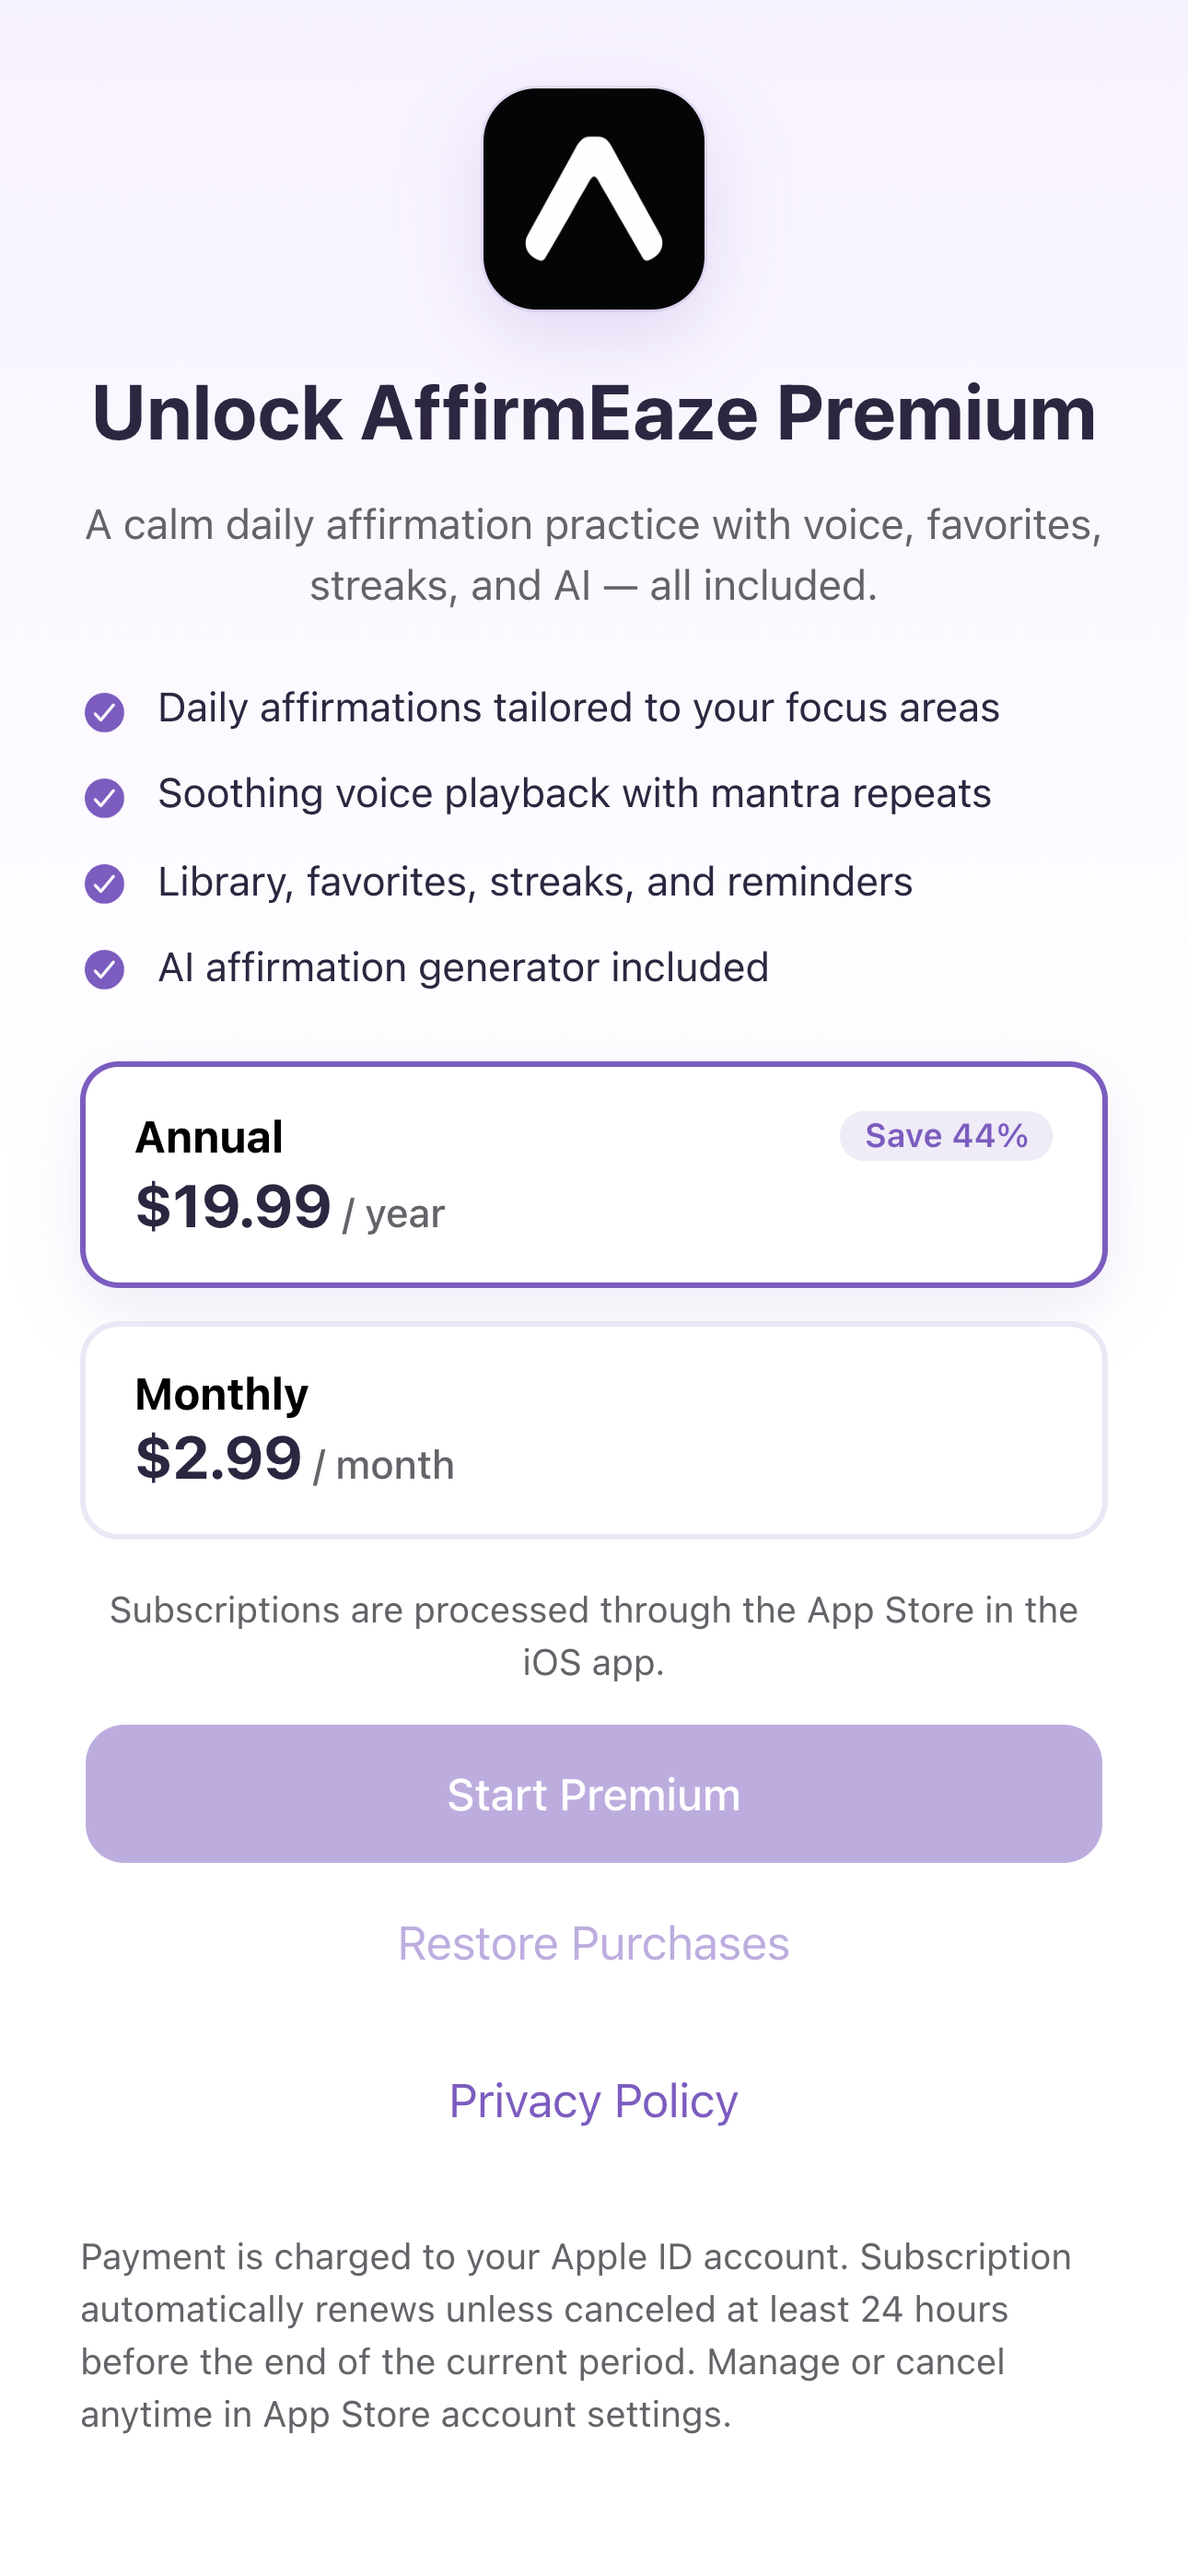
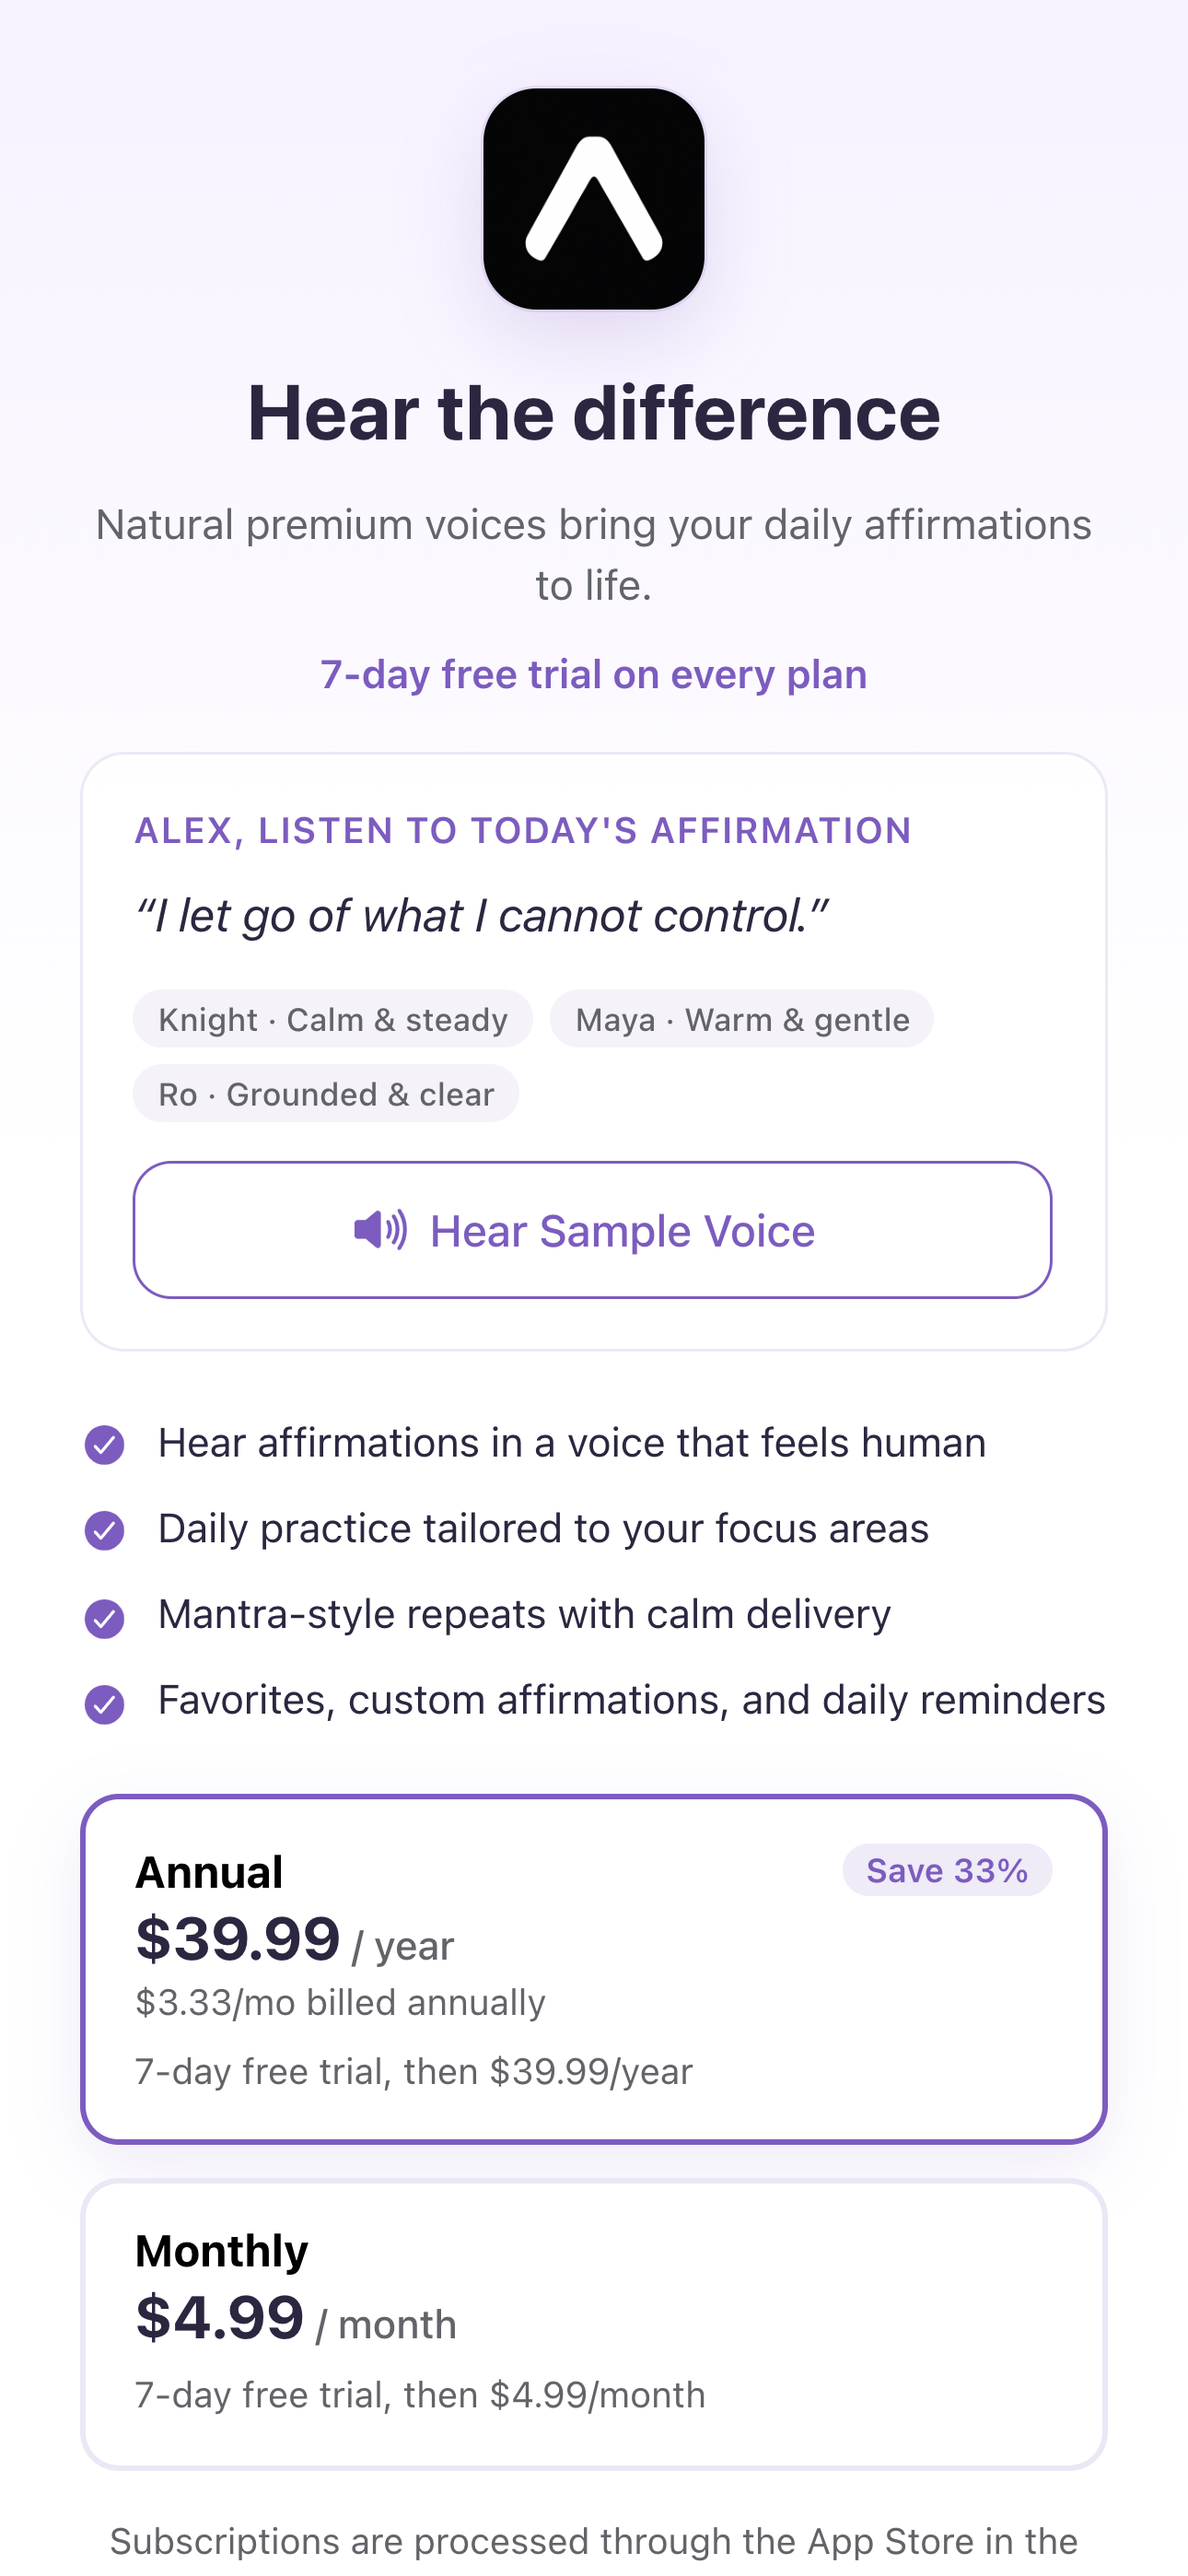
Add TestFlight prep guide and refresh App Store screenshots.
Align shipping docs and capture script with the Saved tab and current paywall so submission assets match the app on main.

diff --git a/docs/testflight-prep.md b/docs/testflight-prep.md
@@ -1,0 +1,107 @@
+# TestFlight prep checklist
+
+Ordered steps for the **Capacitor app on `main`**. Do not use the experimental `react-native` branch for TestFlight until device QA is done on that port.
+
+---
+
+## Phase 1 — Free (before Apple Developer $99)
+
+Do these now; no paid account required.
+
+| # | Task | Doc / command |
+|---|------|----------------|
+| 1 | Full simulator walkthrough: onboarding → paywall (bypass) → Today → Saved → Settings drill-ins | [local-testing.md](./local-testing.md) |
+| 2 | Add `VITE_ELEVENLABS_API_KEY` to `.env.local`, rebuild, test voice on Today + Paywall + Settings → Voice | [pre-ship-free-tasks.md](./pre-ship-free-tasks.md) |
+| 3 | Run on **physical iPhone** via Xcode free provisioning (voice + notifications) | Xcode → your device |
+| 4 | Finalize App Store copy | [app-store-metadata.md](./app-store-metadata.md) |
+| 5 | Regenerate screenshots | `npm run screenshots` → [screenshots-guide.md](./screenshots-guide.md) |
+| 6 | Verify URLs on phone: privacy + support pages load | [host-privacy-policy.md](./host-privacy-policy.md) |
+| 7 | RevenueCat project ready (entitlement `premium`, product IDs noted) | [revenuecat-prep.md](./revenuecat-prep.md) |
+
+**Env for local testing** (`.env.local`):
+
+```bash
+VITE_SUBSCRIPTION_DEV_BYPASS=true
+VITE_ELEVENLABS_API_KEY=your-key
+# VITE_REVENUECAT_APPLE_API_KEY=   # add after Apple account
+```
+
+**Rebuild after env changes:**
+
+```bash
+npm run build:ios
+```
+
+---
+
+## Phase 2 — Apple Developer enrollment day
+
+| # | Task | Where |
+|---|------|--------|
+| 1 | Enroll in [Apple Developer Program](https://developer.apple.com/programs/) | Apple |
+| 2 | Create app in **App Store Connect** | Bundle ID: `com.affirmationflow.app` |
+| 3 | Create subscription group **AffirmEaze Premium** | App Store Connect → Subscriptions |
+| 4 | Add products (7-day free trial on both): | |
+| | • `com.affirmationflow.app.premium.monthly` — $4.99/mo | |
+| | • `com.affirmationflow.app.premium.yearly` — $39.99/yr | |
+| 5 | Link App Store Connect to **RevenueCat** | [revenuecat-prep.md](./revenuecat-prep.md) |
+| 6 | Add `VITE_REVENUECAT_APPLE_API_KEY=appl_...` to `.env.local` | RevenueCat dashboard |
+| 7 | Xcode → App target → **Signing & Capabilities** → add **In-App Purchase** | `ios/App/App.xcworkspace` |
+| 8 | Set **Release** scheme signing to your Team | Xcode |
+
+---
+
+## Phase 3 — TestFlight build
+
+| # | Task | Notes |
+|---|------|--------|
+| 1 | Set `VITE_SUBSCRIPTION_DEV_BYPASS=false` for release testing | Or use a separate `.env.production.local` |
+| 2 | `npm run build:ios` | Syncs web + native |
+| 3 | Xcode → **Product → Archive** | Release configuration |
+| 4 | **Distribute App → App Store Connect** | Upload build |
+| 5 | App Store Connect → **TestFlight** → add internal testers | You + 1–2 friends |
+| 6 | Test on device: subscribe (Sandbox Apple ID), restore, voice, reminders | |
+| 7 | Paste metadata from [app-store-metadata.md](./app-store-metadata.md) | |
+| 8 | Upload screenshots from `docs/screenshots/` | 6.7" slot |
+| 9 | Complete **App Privacy** questionnaire | No tracking; on-device data; IAP |
+| 10 | Submit for **App Review** when TestFlight looks good | |
+
+---
+
+## Phase 4 — Reviewer essentials
+
+Paste into **App Review Information** (full text in [app-store-metadata.md](./app-store-metadata.md)):
+
+- Subscription-only app after 7-day trial
+- No cloud login; data on device
+- Restore Purchases on paywall and Settings → Account
+- Sandbox product IDs: `com.affirmationflow.app.premium.monthly` / `.yearly`
+
+**Support:** support@affirmeaze.app  
+**Privacy:** https://oobaretin.github.io/affirmation-flow/privacy/
+
+---
+
+## Parallel track — React Native (`react-native` branch)
+
+Experimental only. **Do not merge** until:
+
+- [ ] Xcode **16.1+** (RN 0.86 requirement)
+- [ ] `cd mobile-rn && npm run ios:dev` succeeds
+- [ ] Voice + paywall verified on physical iPhone
+
+Keep shipping TestFlight from **`main`**.
+
+---
+
+## Quick reference
+
+| Item | Value |
+|------|--------|
+| App name | AffirmEaze |
+| Bundle ID | `com.affirmationflow.app` |
+| Entitlement (RevenueCat) | `premium` |
+| Monthly | $4.99/mo, 7-day trial |
+| Annual | $39.99/yr, 7-day trial |
+| Xcode workspace | `ios/App/App.xcworkspace` |
+| Build command | `npm run build:ios` |

diff --git a/docs/screenshots-guide.md b/docs/screenshots-guide.md
@@ -4,22 +4,25 @@ Apple requires **6.7" iPhone** screenshots (iPhone 16 Pro Max). Capture these be
 
 ## Simulator setup
 
-1. Open Xcode → run app on **iPhone 16 Pro Max**
-2. Use a clean state: complete onboarding, subscribe bypass on, sample data loaded
-3. Hide simulator chrome if needed: **Device → Appearance → Light** (matches app best)
+1. On **`main`**: `npm run build:ios` → open `ios/App/App.xcworkspace` in Xcode
+2. Run on **iPhone 16 Pro Max** simulator
+3. Use a clean state: complete onboarding, dev bypass on, sample favorites loaded
+4. **Device → Appearance → Light** (matches app best)
 
 ## Recommended shots (6–8 total)
 
 | # | Screen | How to get there | Caption idea |
 |---|--------|------------------|--------------|
-| 1 | Paywall | Turn off dev bypass temporarily | Premium affirmations with voice and AI included |
-| 2 | Today | Main tab | Your daily affirmation, ready to speak |
-| 3 | Today (speaking) | Tap voice icon | Soothing voice with mantra repeats |
-| 4 | Library | Library tab | Browse, search, and save affirmations |
-| 5 | Favorites | Favorites tab | Keep what resonates close |
-| 6 | Onboarding | Redo onboarding in Settings | Personalize in minutes |
-| 7 | Settings — Voice | Settings → Voice section | Calm, clear voice options |
-| 8 | Streak | Today with 2+ day streak | Build your daily practice |
+| 1 | Paywall | Set `VITE_SUBSCRIPTION_DEV_BYPASS=false`, rebuild, open app after onboarding | Natural premium voices — hear the difference |
+| 2 | Today | Today tab (auto-play or Listen active) | Your daily affirmation, ready to speak |
+| 3 | Today (listening) | Pause button visible while voice plays | Soothing voice with mantra repeats |
+| 4 | Saved | Saved tab — add 2 favorites first | Keep the lines that resonate |
+| 5 | Settings hub | Settings tab | Personalize focus, voice, and reminders |
+| 6 | Settings → Voice | Settings → Your Practice → Voice | Calm, clear voice options |
+| 7 | Onboarding | Settings → Advanced → Redo Onboarding (step 1: focus) | Personalize in minutes |
+| 8 | Today + streak | Practice 2+ days or seed streak in dev tools | Build your daily practice |
+
+**Tab names today:** Today · **Saved** · Settings (not Library/Favorites).
 
 ## How to capture
 
@@ -29,7 +32,17 @@ Apple requires **6.7" iPhone** screenshots (iPhone 16 Pro Max). Capture these be
 npm run screenshots
 ```
 
-This saves 6 PNGs at **1290×2796** (iPhone 16 Pro Max / App Store 6.7") to `docs/screenshots/`.
+This saves PNGs at **1290×2796** (iPhone 16 Pro Max / App Store 6.7") to `docs/screenshots/`:
+
+| File | Screen |
+|------|--------|
+| `01-paywall.png` | Paywall (bypass off) |
+| `02-today.png` | Today with greeting + affirmation |
+| `03-saved.png` | Saved tab with filters |
+| `05-settings-voice.png` | Settings → Voice |
+| `06-onboarding.png` | Onboarding step 1 (focus areas) |
+
+Re-run after any UI change before TestFlight or App Store submission.
 
 ### Manual (Xcode simulator)
 
@@ -40,17 +53,17 @@ Save files as:
 ```
 docs/screenshots/01-paywall.png
 docs/screenshots/02-today.png
+docs/screenshots/03-saved.png
 ...
 ```
 
-Add `docs/screenshots/.gitkeep` if you want the folder in git but ignore PNGs — optional.
-
 ## Tips
 
-- Use a real name in onboarding (“Alex”) for a warmer feel
-- Pick 2–3 focus categories so Today shows a good affirmation
-- Add 1–2 favorites before capturing Favorites tab
-- Keep status bar clean (9:41 AM is fine — simulator default)
+- Use a real name in onboarding (“Alex”) for a warmer Today greeting
+- Pick 2 focus categories during onboarding so Today shows a strong line
+- Heart 1–2 affirmations on Today before capturing Saved
+- Keep status bar clean (9:41 AM simulator default is fine)
+- For paywall shot: turn bypass off, rebuild (`npm run build:ios`), capture once, then turn bypass back on
 
 ## App Store Connect upload
 
@@ -59,3 +72,5 @@ When your developer account is ready:
 1. App Store Connect → your app → **App Store** tab
 2. **Screenshots** → iPhone 6.7"
 3. Upload PNGs in order (first image is most important in search)
+
+See also [testflight-prep.md](./testflight-prep.md) for the full submission order.

diff --git a/docs/pre-ship-free-tasks.md b/docs/pre-ship-free-tasks.md
@@ -2,16 +2,16 @@
 
 Use this checklist while you build and test locally. Check items off as you go.
 
-**Last updated:** August 2026 — reflects Settings simplification, GitHub Pages privacy URL, and working iOS build pipeline.
+**Last updated:** August 2026 — reflects Saved tab, Settings hub drill-ins, 3-step onboarding, and Today auto-play.
 
 ---
 
 ## Do next (before paying $99 for Apple)
 
-These are the highest-value items you can finish **without** a Developer account:
+Follow the ordered checklist in [testflight-prep.md](./testflight-prep.md) **Phase 1**. Highest-value items:
 
 1. [ ] **Full app walkthrough** — simulator, then physical iPhone ([local-testing.md](./local-testing.md))
-2. [ ] **ElevenLabs** — add `VITE_ELEVENLABS_API_KEY` to `.env.local`, rebuild, test voice on Today / Library / Paywall / Settings
+2. [ ] **ElevenLabs** — add `VITE_ELEVENLABS_API_KEY` to `.env.local`, rebuild, test voice on Today / Saved / Paywall / Settings → Voice
 3. [ ] **Estimate ElevenLabs cost** per active user (voice is your main ongoing expense)
 4. [ ] **Finalize App Store copy** — review [app-store-metadata.md](./app-store-metadata.md)
 5. [ ] **Verify URLs on your phone** — privacy policy + support page load cleanly
@@ -28,7 +28,7 @@ These are the highest-value items you can finish **without** a Developer account
 - [x] Shell env in `~/.zshrc` (`DEVELOPER_DIR`, CocoaPods `PATH`, `LANG`)
 - [x] `npm run build:ios` succeeds (web build + cap sync + pod install)
 - [x] `npm run open:ios` opens Xcode workspace
-- [ ] Walk through onboarding → Today → Library → Favorites → Settings → Voice preview
+- [ ] Walk through onboarding → Today → Saved → Settings (Account, Practice, Voice)
 - [ ] Confirm paywall is **skipped** in simulator (dev bypass active)
 - [ ] Preview paywall UI once (set bypass `false`, rebuild, then turn bypass back on)
 
@@ -48,9 +48,9 @@ These are the highest-value items you can finish **without** a Developer account
 ## Screenshots
 
 - [x] Follow [screenshots-guide.md](./screenshots-guide.md)
-- [x] Capture 6.7" iPhone 16 Pro Max simulator shots: Paywall, Today, Library, Favorites, Settings (Voice), Onboarding
+- [x] Capture 6.7" iPhone 16 Pro Max shots: Paywall, Today, Saved, Settings (Voice), Onboarding
 - [x] Store PNGs in `docs/screenshots/` (run `npm run screenshots` to regenerate)
-- [ ] Re-capture after Settings layout change (Advanced accordion) if submitting soon
+- [ ] Re-capture after major UI changes (`npm run screenshots`)
 
 ## Privacy policy URL
 
@@ -86,7 +86,7 @@ These are the highest-value items you can finish **without** a Developer account
 
 ## When you have the $99 Apple Developer account
 
-Continue with [app-store-checklist.md](./app-store-checklist.md):
+Continue with [testflight-prep.md](./testflight-prep.md) and [app-store-checklist.md](./app-store-checklist.md):
 
 1. Enroll in Apple Developer Program
 2. Create app record + subscription products in App Store Connect

diff --git a/README.md b/README.md
@@ -6,10 +6,9 @@ Daily affirmations with natural premium voices, favorites, streaks, and a person
 
 ## Features
 
-- **Today** — focus-based daily affirmation, streak tracking, pin, share, voice
-- **Library** — browse by category, search, custom affirmations, AI generator
-- **Favorites** — speak, share, and send to Today
-- **Settings** — premium voice, notifications, focus areas, subscription management
+- **Today** — focus-based daily affirmation, auto-play voice, streak, share, “Another line”
+- **Saved** — favorites and custom affirmations with filters
+- **Settings** — Account, practice, voice, reminders, focus areas
 
 ## Development
 
@@ -49,6 +48,7 @@ Remove `VITE_SUBSCRIPTION_DEV_BYPASS` for production builds. See [docs/app-store
 
 | Doc | Purpose |
 |-----|---------|
+| [testflight-prep.md](docs/testflight-prep.md) | **Start here** — ordered TestFlight & App Store steps |
 | [pre-ship-free-tasks.md](docs/pre-ship-free-tasks.md) | Master checklist while waiting for $99 account |
 | [local-testing.md](docs/local-testing.md) | Simulator build & test |
 | [app-store-metadata.md](docs/app-store-metadata.md) | Copy-paste App Store description & keywords |

diff --git a/docs/app-store-metadata.md b/docs/app-store-metadata.md
@@ -78,7 +78,7 @@ AffirmEaze is a subscription-only affirmation app.
 Flow:
 1. User completes onboarding (name, focus areas, voice/reminder preferences)
 2. User sees paywall, picks monthly or annual, and starts a 7-day free trial via Apple In-App Purchase
-3. After subscribing, user accesses Today, Library, Favorites, and Settings
+3. After subscribing, user accesses Today, Saved, and Settings
 
 No login or cloud account. Data is stored locally on device.
 "Lock App" in Settings returns user to a local lock screen; data remains on device.
@@ -96,6 +96,6 @@ Test subscription products:
 | `com.affirmationflow.app.premium.monthly` | AffirmEaze Premium Monthly | $4.99 |
 | `com.affirmationflow.app.premium.yearly` | AffirmEaze Premium Annual | $39.99 |
 
-**Monthly description:** Full access — natural premium voices, daily affirmations, library, AI, and reminders.
+**Monthly description:** Full access — natural premium voices, daily affirmations, saved favorites, AI, and reminders.
 
 **Annual description:** Full access with natural premium voices. Best value — save vs monthly.

diff --git a/docs/app-store-checklist.md b/docs/app-store-checklist.md
@@ -1,5 +1,7 @@
 # App Store Connect checklist
 
+Start with the ordered guide: [testflight-prep.md](./testflight-prep.md).
+
 ## Free phase (no $99 account yet)
 
 See [pre-ship-free-tasks.md](./pre-ship-free-tasks.md) for the full free checklist.
@@ -57,10 +59,9 @@ See [pre-ship-free-tasks.md](./pre-ship-free-tasks.md) for the full free checkli
 
 1. **Paywall** — "Natural premium voices — hear the difference"
 2. **Today** — "Your daily affirmation, ready to speak"
-3. **Library** — "Browse, search, and save affirmations"
-4. **Favorites** — "Save the lines that resonate"
-5. **Settings** — "Personalize focus, voice, and reminders"
-6. **Onboarding** — "Start with calm, spoken affirmations"
+3. **Saved** — "Keep the lines that resonate"
+4. **Settings** — "Personalize focus, voice, and reminders"
+5. **Onboarding** — "Start with calm, spoken affirmations"
 
 ## Reviewer notes
 
